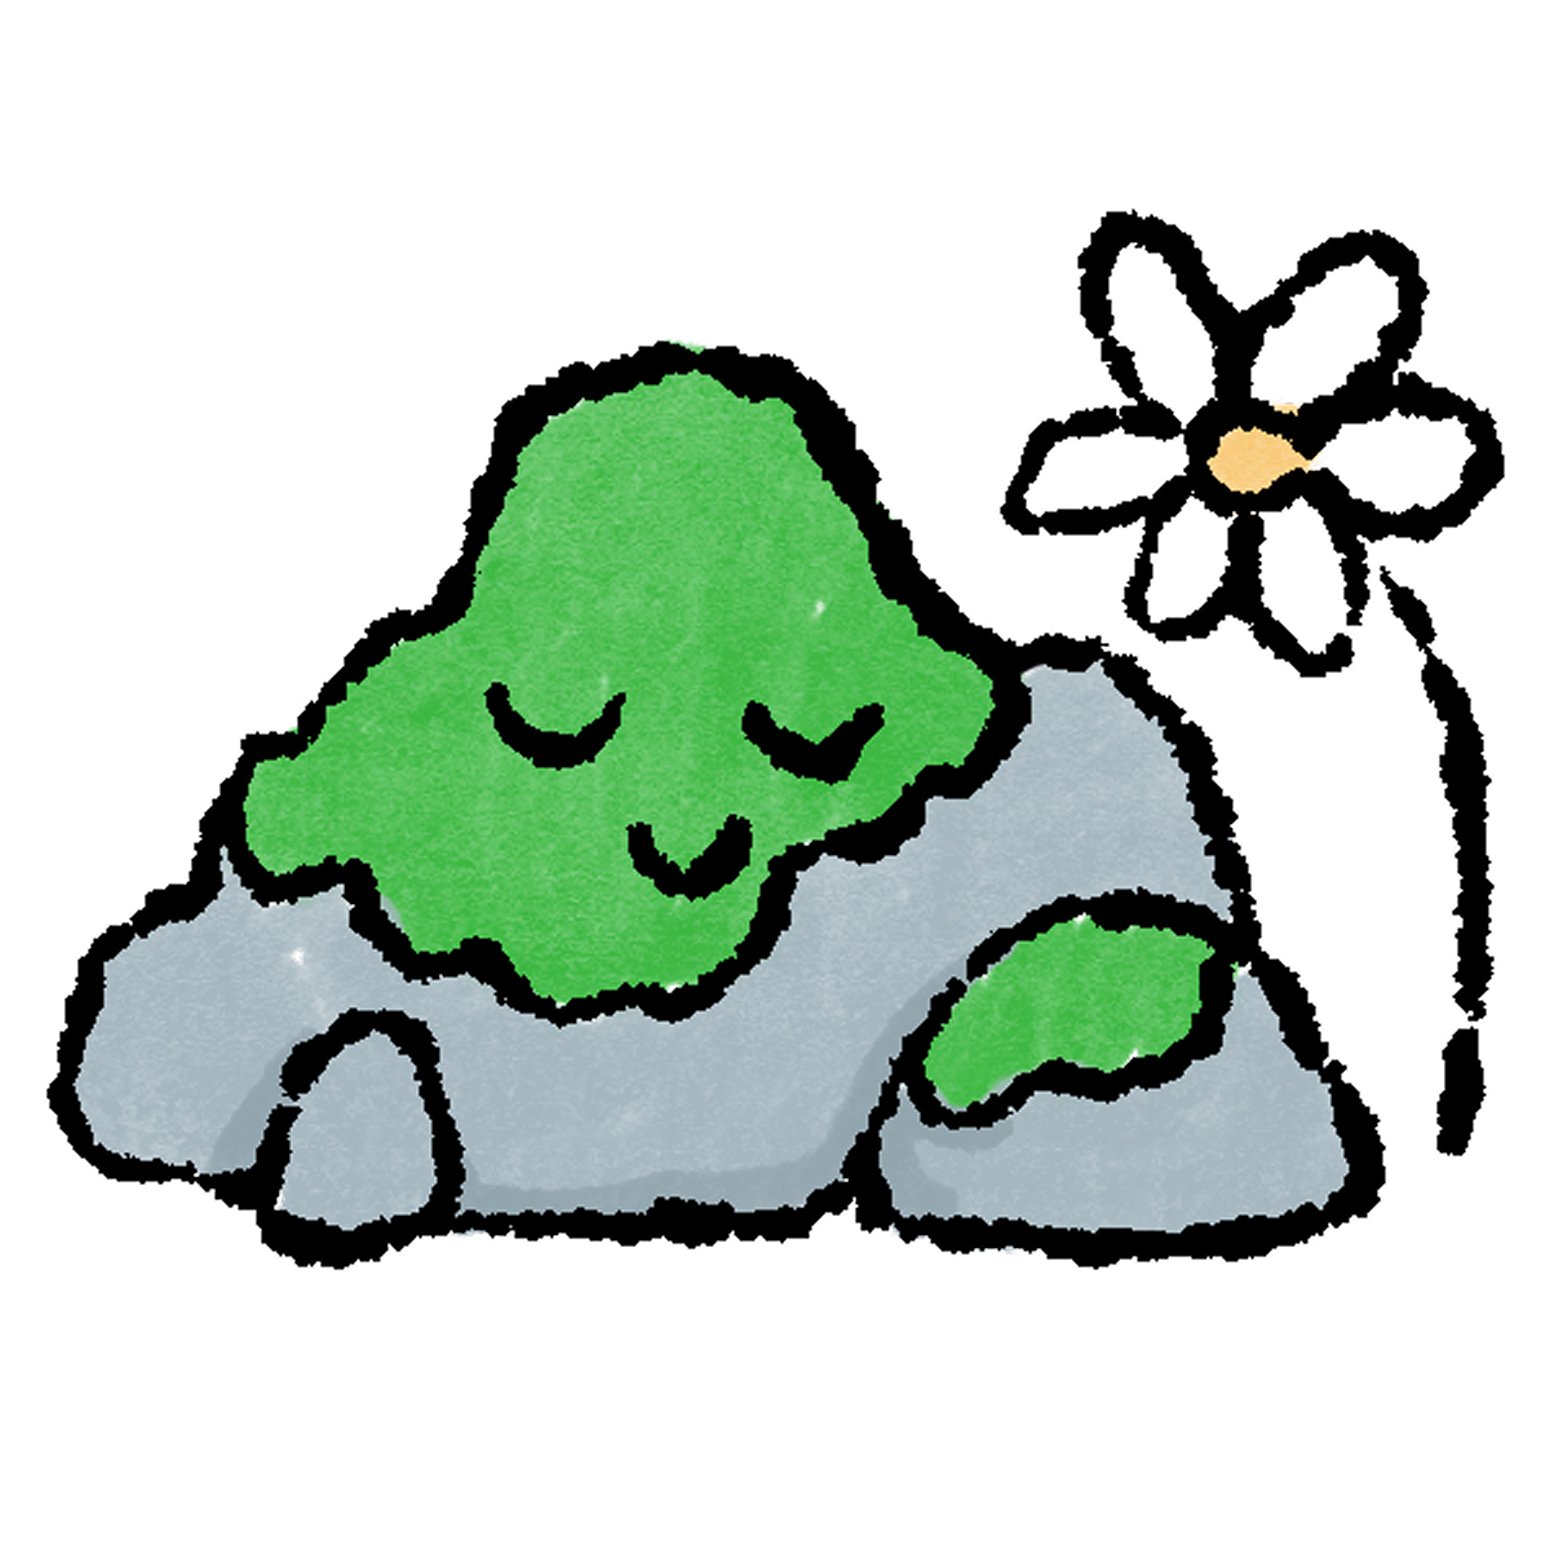
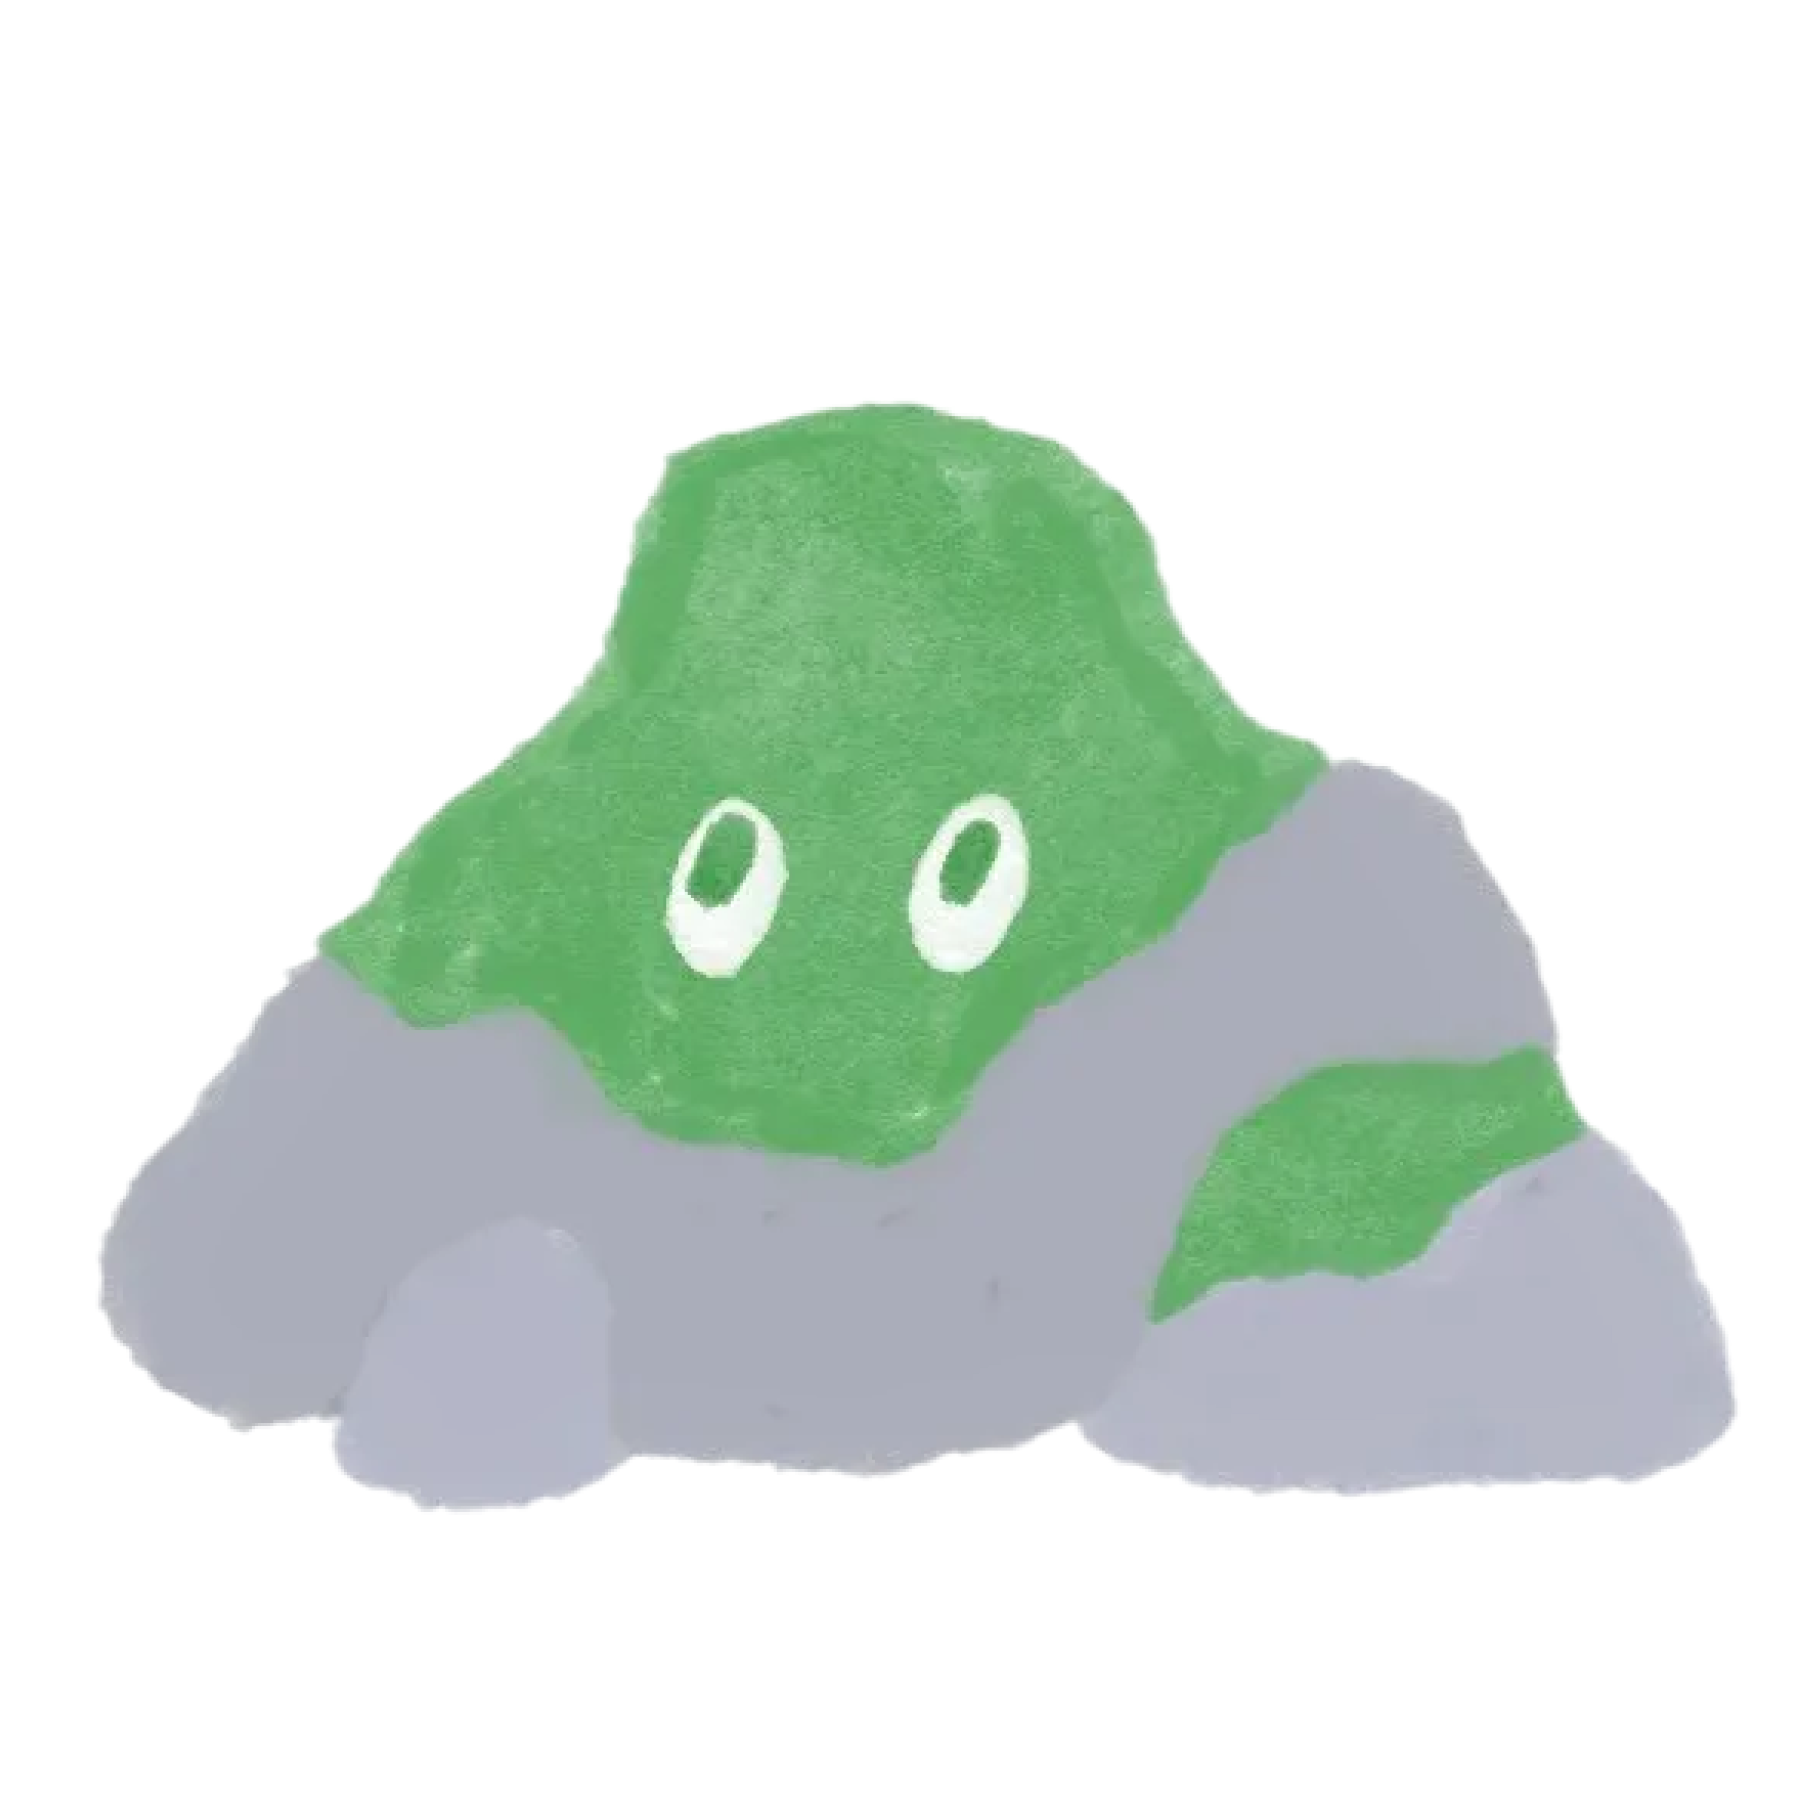
Add question images and update persona images for new characters
- Added question images to all 10 questions (from questions folder)
- Updated Bouncy Ball to use ball.png
- Updated Coffee Cup to use coffee.png
- Updated Sleepy Moon to use moon.png
- Updated Rubber Duck to use duck.png
- Display question images above answer options
- Added responsive styling for question images (300px max, 200px on mobile)

Changed region(s): [[0.031, 0.1239, 0.991, 0.8361]]

diff --git a/src/gameData.js b/src/gameData.js
@@ -6,8 +6,23 @@ import starImg from './assets/star.png';
 import snailImg from './assets/snail.png';
 import bugImg from './assets/bug.png';
 import rockImg from './assets/rock.png';
-import hornImg from './assets/horn.png';
 import blobImg from './assets/blob.png';
+import ballImg from './assets/ball.png';
+import coffeeImg from './assets/coffee.png';
+import moonImg from './assets/moon.png';
+import duckImg from './assets/duck.png';
+
+// Question images
+import questionOneImg from './assets/questions/one.png';
+import questionTwoImg from './assets/questions/two.png';
+import questionThreeImg from './assets/questions/three.png';
+import questionFourImg from './assets/questions/four.png';
+import questionFiveImg from './assets/questions/five.png';
+import questionSixImg from './assets/questions/six.png';
+import questionSevenImg from './assets/questions/seven.png';
+import questionEightImg from './assets/questions/eight.png';
+import questionNineImg from './assets/questions/nine.png';
+import questionTenImg from './assets/questions/ten.png';
 
 export const personas = {
   brickie: {
@@ -105,7 +120,7 @@ export const personas = {
     traits: ['energetic', 'texts in all caps', 'dances in grocery stores', 'knows everyone somehow', 'optimistic', 'triple books weekends', 'photobombs strangers'],
     color: '#FF6B6B',
     emoji: '🏐',
-    image: hornImg,
+    image: ballImg,
     mostCompatible: { id: 'sparkleChaser', reason: 'You both live for excitement and high energy moments' },
     leastCompatible: { id: 'safetySnail', reason: 'Your endless energy and enthusiasm overwhelm them' }
   },
@@ -127,7 +142,7 @@ export const personas = {
     traits: ['caffeinated', 'morning person', 'always has new ideas', 'talks really fast', 'productive', 'wakes up at 5am', 'needs constant stimulation'],
     color: '#8B4513',
     emoji: '☕',
-    image: blockImg,
+    image: coffeeImg,
     mostCompatible: { id: 'sparkleChaser', reason: 'You both have endless energy and enthusiasm' },
     leastCompatible: { id: 'mossyRock', reason: 'Your constant energy exhausts their slow, steady pace' }
   },
@@ -138,7 +153,7 @@ export const personas = {
     traits: ['nocturnal', 'creative at 2am', 'overthinks everything', 'loves stargazing', 'moody', 'writes poetry', 'sleeps til noon'],
     color: '#C8A2C8',
     emoji: '🌙',
-    image: pixelImg,
+    image: moonImg,
     mostCompatible: { id: 'pixelPuff', reason: 'You both appreciate beauty and deep feelings' },
     leastCompatible: { id: 'coffeeCup', reason: 'Their morning energy clashes with your night owl schedule' }
   },
@@ -149,7 +164,7 @@ export const personas = {
     traits: ['patient', 'good listener', 'asks helpful questions', 'non-judgmental', 'supportive', 'always available', 'debugging expert'],
     color: '#FFD700',
     emoji: '🦆',
-    image: stickyImg,
+    image: duckImg,
     mostCompatible: { id: 'safetySnail', reason: 'You both value careful, thoughtful approaches' },
     leastCompatible: { id: 'glitchGremlin', reason: 'Their chaos stresses you out' }
   }
@@ -159,6 +174,7 @@ export const questions = [
   {
     id: 1,
     scenario: "You wake up in a funky digital world! What catches your eye first?",
+    image: questionOneImg,
     choices: [
       {
         text: "Ooh, everything is so neat and organized!",
@@ -181,6 +197,7 @@ export const questions = [
   {
     id: 2,
     scenario: "A cute lil creature bounces up and offers you a quest!",
+    image: questionTwoImg,
     choices: [
       {
         text: "YES YES YES LET'S GOOO!! 🏃♀",
@@ -203,6 +220,7 @@ export const questions = [
   {
     id: 3,
     scenario: "You find a mysterious gadget! What's your move?",
+    image: questionThreeImg,
     choices: [
       {
         text: "Time to build something cool and organized!",
@@ -225,6 +243,7 @@ export const questions = [
   {
     id: 4,
     scenario: "Your squad needs a leader! What do you do?",
+    image: questionFourImg,
     choices: [
       {
         text: "GET HYPED!! *rallies everyone*",
@@ -247,6 +266,7 @@ export const questions = [
   {
     id: 5,
     scenario: "Locked door with a puzzle! How do you crack it?",
+    image: questionFiveImg,
     choices: [
       {
         text: "Build a solution piece by piece!",
@@ -269,6 +289,7 @@ export const questions = [
   {
     id: 6,
     scenario: "CHAOS ALERT!! Everything's going wrong! What now?",
+    image: questionSixImg,
     choices: [
       {
         text: "TIME TO TAKE CHARGE!! 📢",
@@ -291,6 +312,7 @@ export const questions = [
   {
     id: 7,
     scenario: "Treasure chest!! What do you hope is inside?",
+    image: questionSevenImg,
     choices: [
       {
         text: "SPARKLES AND SHINY THINGS!! ✨",
@@ -313,6 +335,7 @@ export const questions = [
   {
     id: 8,
     scenario: "Victory!! Time to celebrate! What's your vibe?",
+    image: questionEightImg,
     choices: [
       {
         text: "PARTY TIME!! *blasts music*",
@@ -335,6 +358,7 @@ export const questions = [
   {
     id: 9,
     scenario: "Someone needs your help on a project!",
+    image: questionNineImg,
     choices: [
       {
         text: "Let me build you a solid plan!",
@@ -357,6 +381,7 @@ export const questions = [
   {
     id: 10,
     scenario: "The end! What's your legacy?",
+    image: questionTenImg,
     choices: [
       {
         text: "A solid foundation for future friends!",

diff --git a/src/App.css b/src/App.css
@@ -149,9 +149,24 @@ body {
 .scenario {
   font-size: 2rem;
   color: #000;
-  margin-bottom: 40px;
+  margin-bottom: 30px;
   line-height: 1.3;
   font-weight: 900;
+}
+
+.question-image {
+  width: 100%;
+  display: flex;
+  justify-content: center;
+  align-items: center;
+  margin-bottom: 30px;
+}
+
+.question-image img {
+  max-width: 300px;
+  width: 100%;
+  height: auto;
+  object-fit: contain;
 }
 
 .choices {
@@ -568,6 +583,10 @@ body {
   .choice-button {
     padding: 14px 18px;
     border-radius: 10px;
+  }
+
+  .question-image img {
+    max-width: 200px;
   }
 
   .persona-emoji-large img {

diff --git a/src/components/Question.jsx b/src/components/Question.jsx
@@ -23,6 +23,11 @@ function Question({ question, questionNumber, totalQuestions, onAnswer }) {
       <div className="question-content">
         <p className="question-number">Question {questionNumber} of {totalQuestions}</p>
         <h2 className="scenario">{question.scenario}</h2>
+        {question.image && (
+          <div className="question-image">
+            <img src={question.image} alt={`Question ${questionNumber}`} />
+          </div>
+        )}
         <div className="choices">
           {shuffledChoices.map((choice, index) => (
             <button
